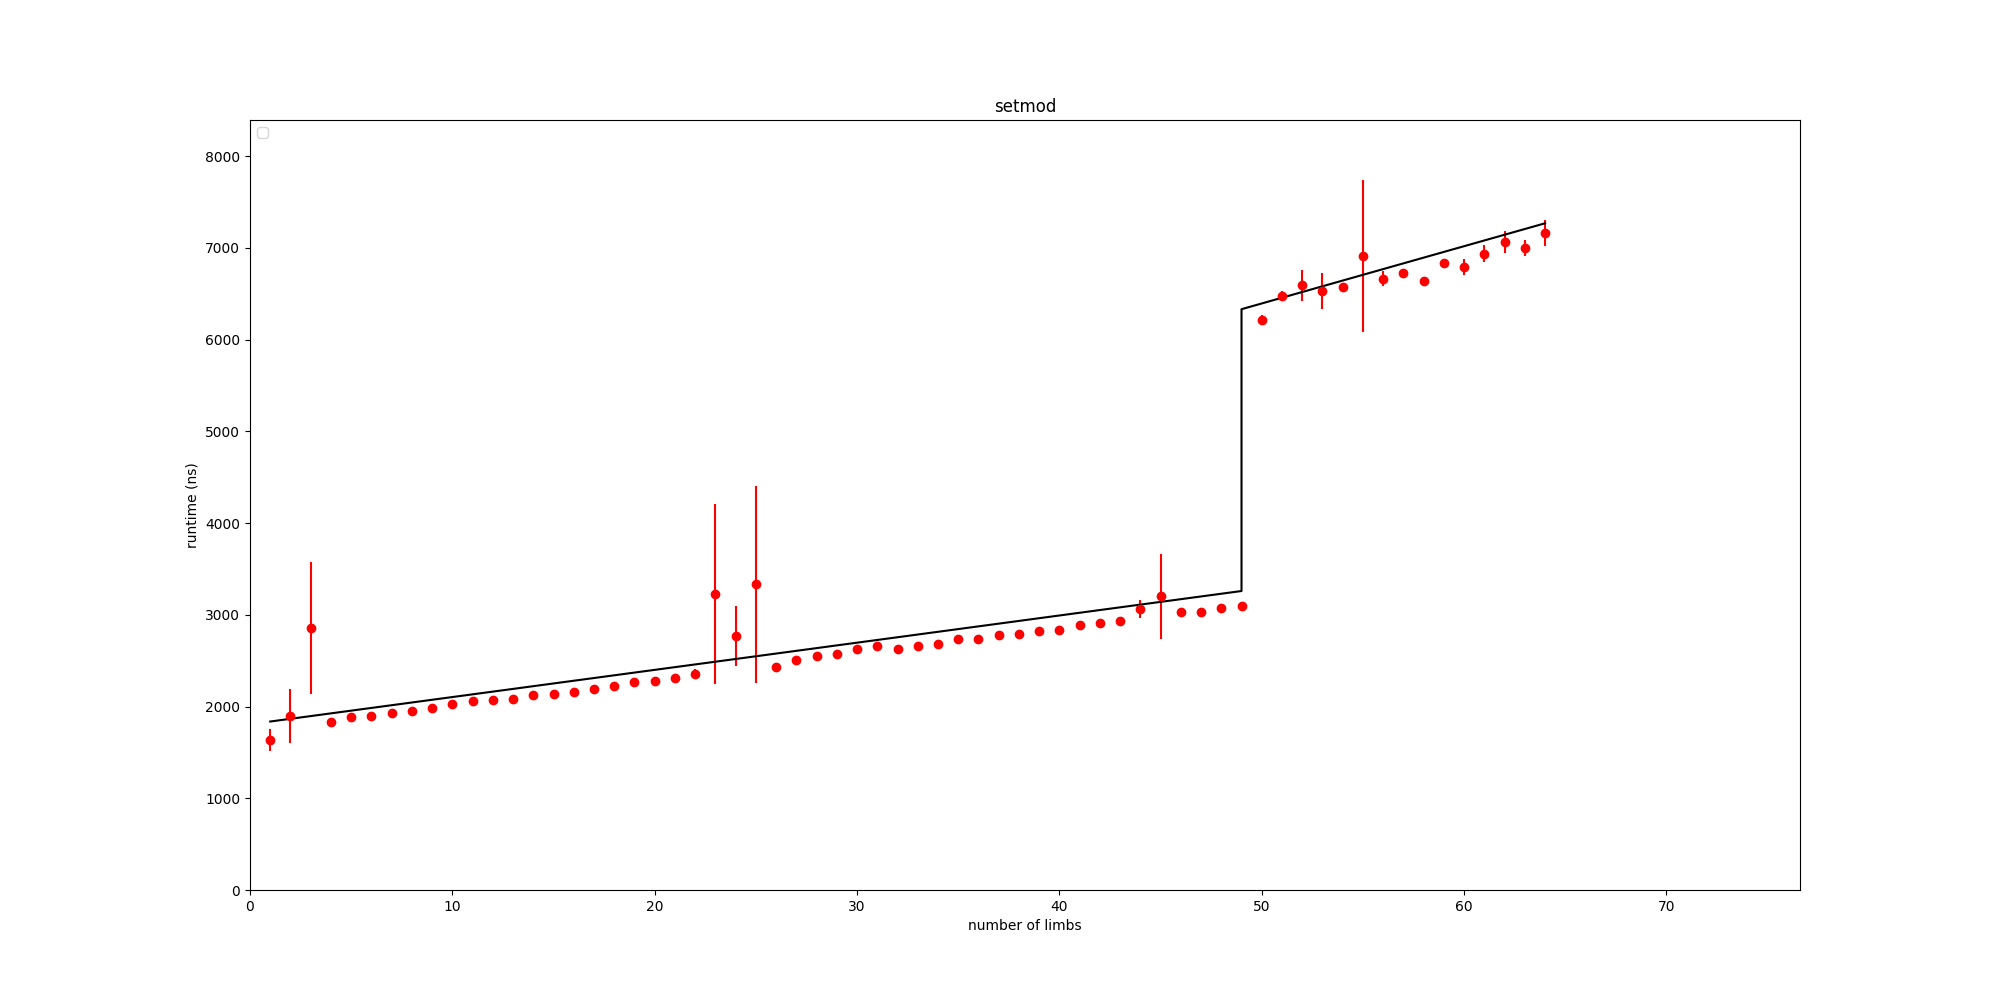
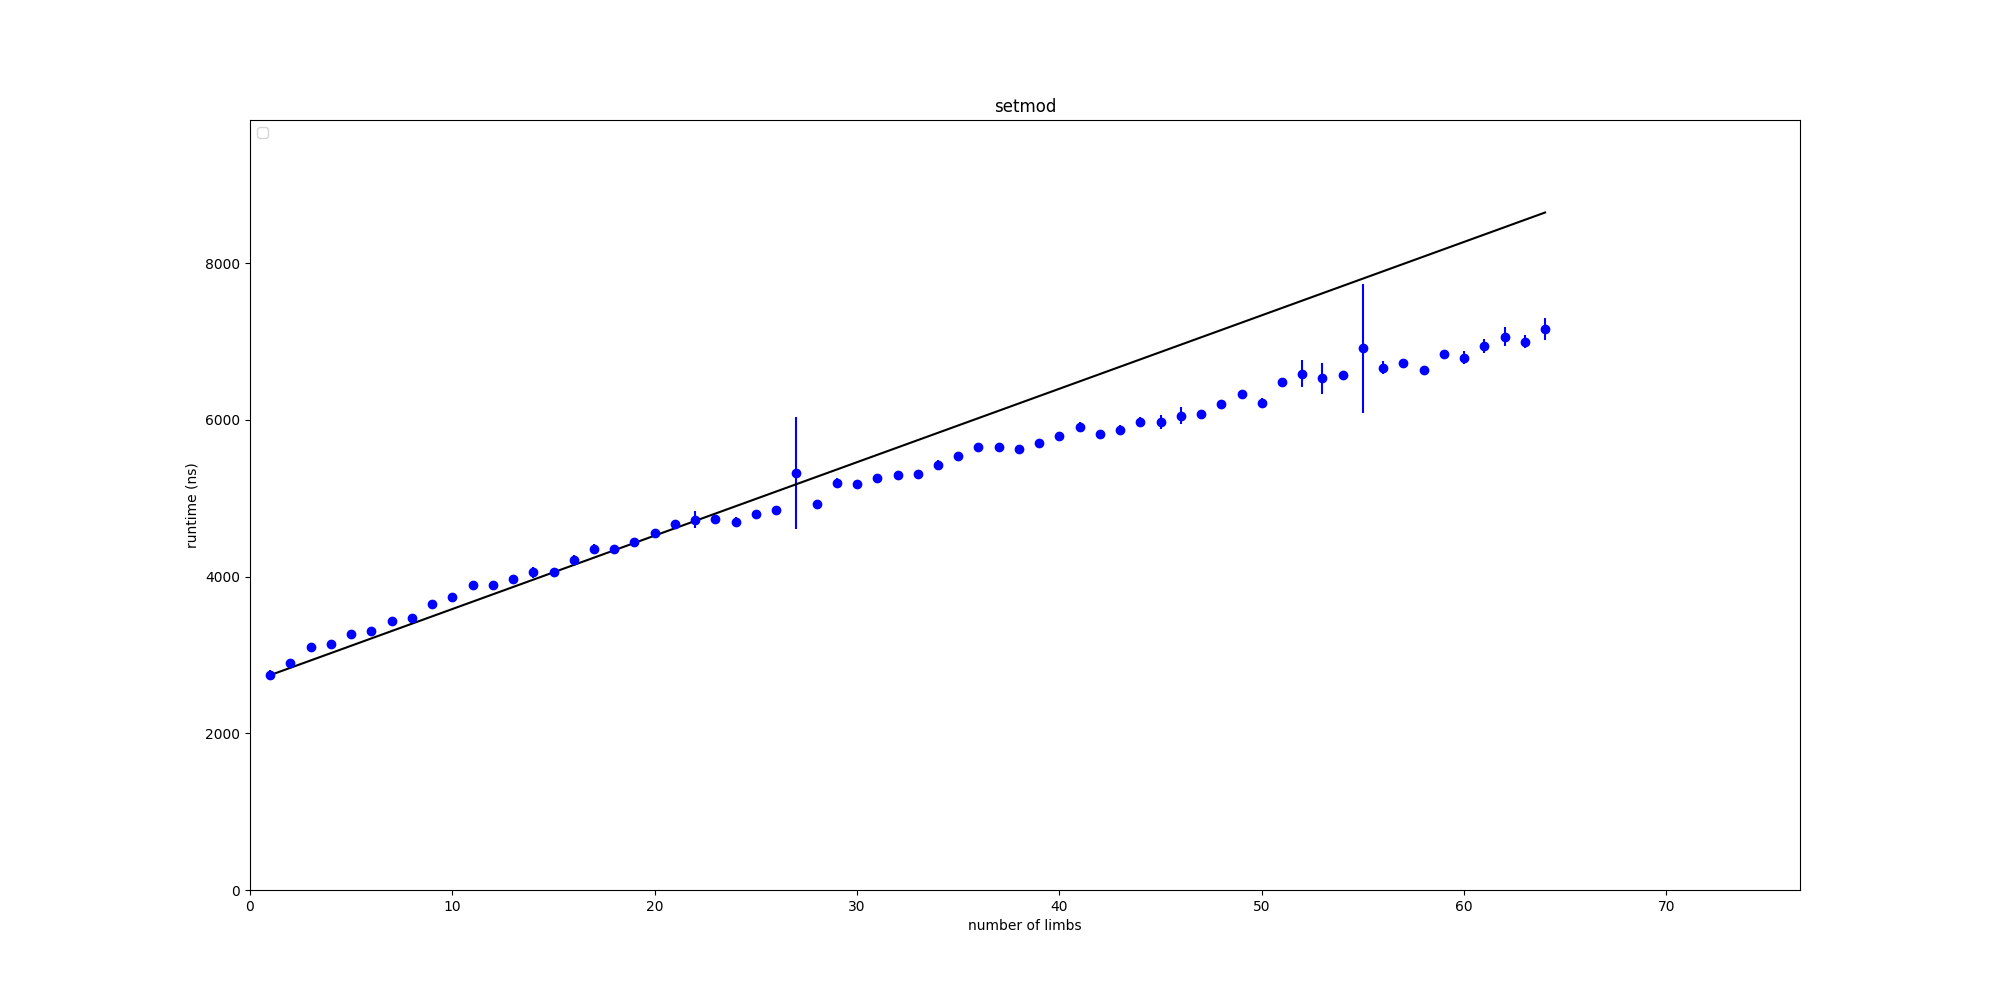
wip

diff --git a/plot.py b/plot.py
@@ -276,43 +276,65 @@ mulmont_benches = go_arith_benchmarks['mulmont']
 #eqn_mulmont_lof, mulmont_lof = fit_quadratic(zip([mulmont_benches['y_vals'])[:fast_mulmont_cutoff]
 mulmont_non_unrolled_data = format_bench_data_for_graphing((1, 64), go_arith_benchmarks['mulmont']['non-unrolled'], 'mulmont', 'red')
 mulmont_generic_data = format_bench_data_for_graphing((1, 64), go_arith_benchmarks['mulmont']['generic'], 'mulmont-generic', 'blue')
-setmod_non_unrolled_data = format_bench_data_for_graphing((1, 64), go_arith_benchmarks['setmod']['non-unrolled'], 'setmod-non-unrolled', 'red')
-setmod_generic_data = format_bench_data_for_graphing((1, 100000), go_arith_benchmarks['setmod']['generic'], 'setmod-generic', 'blue')
+
 addmod_non_unrolled_data = format_bench_data_for_graphing((1, 64), go_arith_benchmarks['addmod']['non-unrolled'], 'addmod-non-unrolled', 'red')
 submod_non_unrolled_data = format_bench_data_for_graphing((1, 64), go_arith_benchmarks['submod']['non-unrolled'], 'submod-non-unrolled', 'red')
+
+addmod_generic_data = format_bench_data_for_graphing((1, 100000), go_arith_benchmarks['addmod']['generic'], 'addmod-generic', 'blue')
+submod_generic_data = format_bench_data_for_graphing((1, 100000), go_arith_benchmarks['submod']['generic'], 'submod-generic', 'green')
+
+# setmod_non_unrolled_data = format_bench_data_for_graphing((1, 64), go_arith_benchmarks['setmod']['non-unrolled'], 'setmod-non-unrolled', 'red')
+setmod_generic_data = format_bench_data_for_graphing((1, 100000), go_arith_benchmarks['setmod']['generic'], 'setmod-generic', 'blue')
 
 #scatterplot_ns_data("charts/mulmont_generic.png", "MULMONTMAX Generic Benchmarks", False, [mulmont_non_unrolled_data, mulmont_generic_data])
 #scatterplot_ns_data('charts/setmod.png', 'SETMOD Benchmarks', False, [setmod_non_unrolled_data, setmod_generic_data])
 #scatterplot_ns_data('charts/addmod.png', 'ADDMOD Benchmarks', False, [addmod_non_unrolled_data])
 #scatterplot_ns_data('charts/submod.png', 'SUBMOD Benchmarks', False, [submod_non_unrolled_data])
 
-mulmont_non_unrolled_small_limbs_data = format_bench_data_for_graphing((1, 12), go_arith_benchmarks['mulmont']['non-unrolled'], 'mulmont', 'red')
-setmod_non_unrolled_small_limbs_data = format_bench_data_for_graphing((1, 12), go_arith_benchmarks['setmod']['non-unrolled'], 'setmod', 'green')
+#mulmont_non_unrolled_small_limbs_data = format_bench_data_for_graphing((1, 12), go_arith_benchmarks['mulmont']['non-unrolled'], 'mulmont', 'red')
+#setmod_non_unrolled_small_limbs_data = format_bench_data_for_graphing((1, 12), go_arith_benchmarks['setmod']['non-unrolled'], 'setmod', 'green')
 
 # linear cost for setmod up to cutoff
-setmod_low_eqn, setmod_low_cost = fit_linear((1, 32), (1, fast_mulmont_cutoff), setmod_non_unrolled_data, False)
-setmod_high_eqn, setmod_high_cost = fit_linear((fast_mulmont_cutoff, 100000), (fast_mulmont_cutoff, 100000), setmod_generic_data, True)
-setmod_model = stitch_model(setmod_low_cost, setmod_high_cost, fast_mulmont_cutoff)
+# setmod_low_eqn, setmod_low_cost = fit_linear((1, 32), (1, fast_mulmont_cutoff), setmod_non_unrolled_data, False)
+setmod_eqn, setmod_model = fit_linear((1, 16), (1, 100000), setmod_generic_data, True)
+# setmod_model = stitch_model(setmod_low_cost, setmod_high_cost, fast_mulmont_cutoff)
 
 mulmont_evmmax = stitch_data(go_arith_benchmarks['mulmont']['non-unrolled'], go_arith_benchmarks['mulmont']['generic'], fast_mulmont_cutoff)
-setmod_evmmax = stitch_data(go_arith_benchmarks['setmod']['non-unrolled'], go_arith_benchmarks['setmod']['generic'], fast_mulmont_cutoff)
+# setmod_evmmax = stitch_data(go_arith_benchmarks['setmod']['non-unrolled'], go_arith_benchmarks['setmod']['generic'], fast_mulmont_cutoff)
 
 mulmont_eqn_low, mulmont_cost_low = fit_quadratic((1, 12), (1, fast_mulmont_cutoff), mulmont_evmmax, True)
 mulmont_eqn_hi, mulmont_cost_hi = fit_quadratic((fast_mulmont_cutoff, 10000), (fast_mulmont_cutoff, 10000), mulmont_evmmax, True)
 mulmont_model = stitch_model(mulmont_cost_low, mulmont_cost_hi, fast_mulmont_cutoff)
+
+import pdb; pdb.set_trace()
+
+# mulmont_eqn_low = 
+
+
+# mulmont_eqn_low = 
+# TODO addmod/submod with model on graph
+
+# mulmont_eqn_low = [2.12, 1.29, 8.0482]
+# mulmont_eqn_hi = [0.01, 246.89, 22393.199999999997] 
+
+scatterplot_ns_data("charts/addmodx_low.png", "addmodx low limbs", (1, 12), [False, False], ["o", 'o'], [submod_generic_data, addmod_generic_data])
+scatterplot_ns_data("charts/addmodx_med.png", "addmodx medium limbs", (1, 100), [False, False], ["o", 'o'], [submod_generic_data, addmod_generic_data])
+scatterplot_ns_data("charts/addmodx_all.png", "addmodx all limbs", (1, 100000), [False, False], ["o", 'o'], [submod_generic_data, addmod_generic_data])
 
 mulmont_evmmax_model_graphing_data = prep_model_data_for_graphing(mulmont_model, 'mulmont', (1, 100000))
 scatterplot_ns_data("charts/mulmontmax_all.png", "MULMONTMAX Arithmetic Benchmarks with Gas Model", (1, 100000), [False, False], ["o", "-"], [mulmont_evmmax, mulmont_evmmax_model_graphing_data])
 scatterplot_ns_data("charts/mulmontmax_cutoff.png", "MULMONTMAX Arithmetic Benchmarks with Gas Model", (1, 64), [False, False], ["o", "-"], [mulmont_evmmax, mulmont_evmmax_model_graphing_data])
 
 setmod_evmmax_model_graphing_data = prep_model_data_for_graphing(setmod_model, "setmod", (1, 10000))
-scatterplot_ns_data("charts/setmodmax_all.png", "SETMODMAX model", (1, 100000), [False, False], ["o", "-"], [setmod_evmmax, setmod_evmmax_model_graphing_data])
-setmod_evmmax_model_graphing_data = prep_model_data_for_graphing(setmod_model, "setmod", (1, 10000))
-scatterplot_ns_data("charts/setmodmax_cutoff.png", "SETMODMAX model", (1, 64), [False, False], ["o", "-"], [setmod_evmmax, setmod_evmmax_model_graphing_data])
+scatterplot_ns_data("charts/setmodmax_all.png", "SETMODMAX model", (1, 100000), [False, False], ["o", "-"], [setmod_generic_data, setmod_evmmax_model_graphing_data])
+scatterplot_ns_data("charts/setmodmax_cutoff.png", "SETMODMAX model", (1, 64), [False, False], ["o", "-"], [setmod_generic_data, setmod_evmmax_model_graphing_data])
+scatterplot_ns_data("charts/setmodmax_low.png", "SETMODMAX model", (1, 16), [False, False], ["o", "-"], [setmod_generic_data, setmod_evmmax_model_graphing_data])
 
-mulmont_evmmax_model_low_limbs_graphing_data = strip_graphing_data((1, 12), mulmont_evmmax_model_graphing_data)
-scatterplot_ns_data("charts/mulmontmax_low.png", "MULMONTMAX Arithmetic Benchmarks with Gas Model", (1, 12), [True, True], ["o", "o"], [mulmont_non_unrolled_small_limbs_data, mulmont_evmmax_model_low_limbs_graphing_data])
-mulmont_evmmax_model_graphing_data = list(mulmont_evmmax_model_graphing_data)
+# These are broken:
 
-setmod_evmmax_model_low_limbs_graphing_data = strip_graphing_data((1, 12), setmod_evmmax_model_graphing_data)
-scatterplot_ns_data("charts/setmodmax_low.png", "SETMODMAX Benchmarks with Gas Model", (1, 12), [True, True], ["o", "o"], [setmod_non_unrolled_small_limbs_data, setmod_evmmax_model_low_limbs_graphing_data])
+# mulmont_evmmax_model_low_limbs_graphing_data = strip_graphing_data((1, 12), mulmont_evmmax_model_graphing_data)
+# scatterplot_ns_data("charts/mulmontmax_low.png", "MULMONTMAX Arithmetic Benchmarks with Gas Model", (1, 12), [True, True], ["o", "o"], [mulmont_non_unrolled_small_limbs_data, mulmont_evmmax_model_low_limbs_graphing_data])
+# mulmont_evmmax_model_graphing_data = list(mulmont_evmmax_model_graphing_data)
+
+# setmod_evmmax_model_low_limbs_graphing_data = strip_graphing_data((1, 12), setmod_evmmax_model_graphing_data)
+# scatterplot_ns_data("charts/setmodmax_low.png", "SETMODMAX Benchmarks with Gas Model", (1, 12), [True, True], ["o", "o"], [setmod_non_unrolled_small_limbs_data, setmod_evmmax_model_low_limbs_graphing_data])
